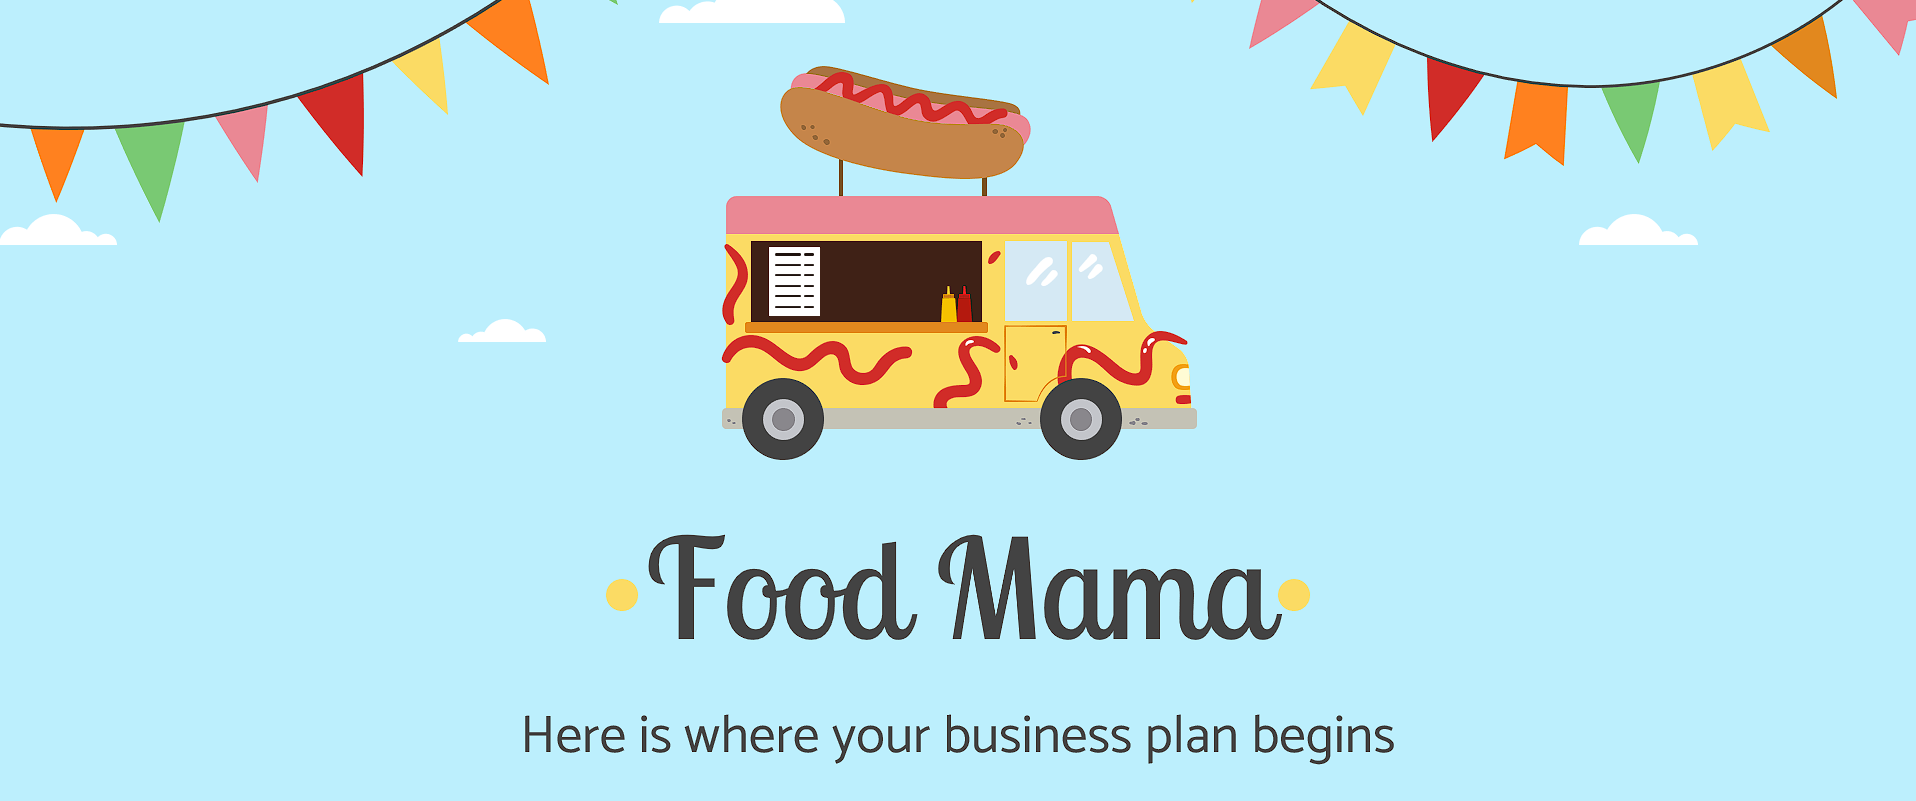
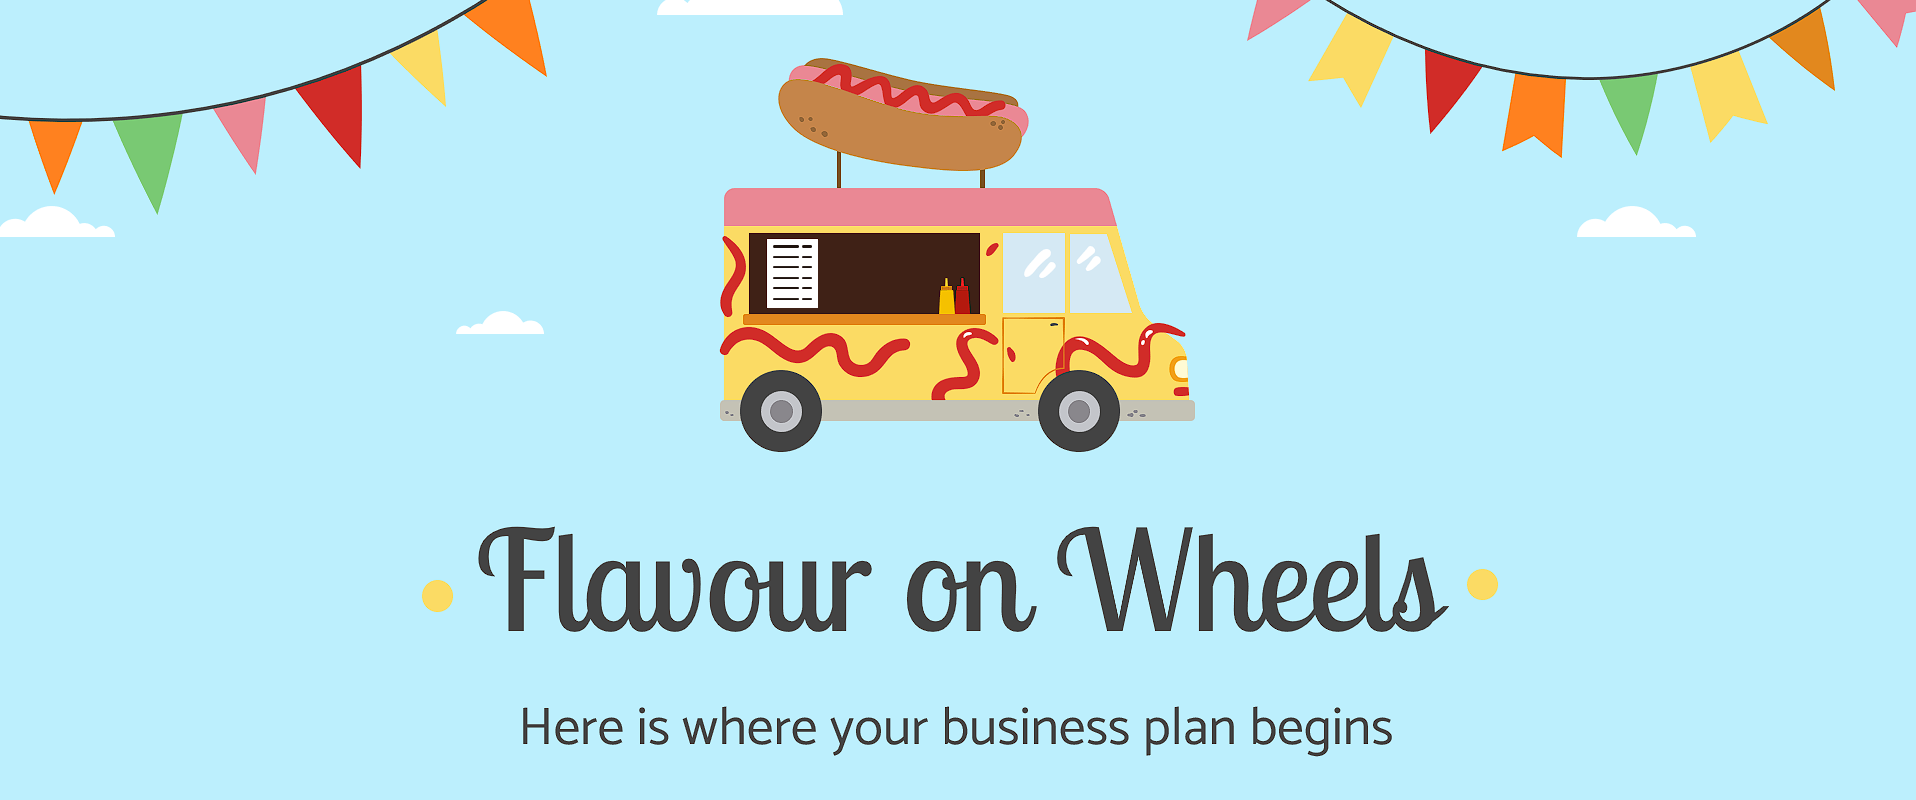
foodmama to flavour on wheels

diff --git a/templates/base.html b/templates/base.html
@@ -5,7 +5,7 @@
     <meta http-equiv="X-UA-Compatible" content="IE=edge" />
     <meta name="viewport" content="width=device-width, initial-scale=1.0" />
 
-    <title>{% block title %}Food Mama{% endblock %}</title>
+    <title>{% block title %}Flavour on Wheels{% endblock %}</title>
 
     <!-- Bootstrap -->
     <link
@@ -38,7 +38,7 @@
     <!-- Navbar -->
     <nav class="navbar fixed-top navbar-dark bg-warning">
       <div class="container-fluid">
-        <a class="navbar-brand" href='{{ url_for("home") }}'>Food Mama</a>
+        <a class="navbar-brand" href='{{ url_for("home") }}'>Flavour on Wheels</a>
 
         <form class="d-flex search-form ms-sm-auto" role="search">
           <input
@@ -92,7 +92,7 @@
     <!-- Navbar Placeholder -->
     <nav class="navbar navbar-placeholder navbar-dark bg-warning">
       <div class="container-fluid">
-        <a class="navbar-brand" href="#">Food Mama</a>
+        <a class="navbar-brand" href="#">Flavour on Wheels</a>
 
         <form class="d-flex search-form ms-sm-auto" role="search">
           <input
@@ -149,7 +149,7 @@
 <!--          <a href=""><i class="fa-brands fa-twitter"></i></a>-->
 <!--          <a href=""><i class="fa-brands fa-discord"></i></a>-->
 <!--        </div>-->
-<!--        <h4 id="copyright">@ Copyright </h4><h1 class="brand">Food Mama</h1>-->
+<!--        <h4 id="copyright">@ Copyright </h4><h1 class="brand">Flavour on Wheels</h1>-->
 <!--      </footer>-->
     <!-- Bootstraps -->
     <script
@@ -162,14 +162,14 @@
     <script>
       const input = document.querySelector(".search-input");
       if (window.innerWidth <= 575) {
-        input.setAttribute("placeholder", "Food Mama");
+        input.setAttribute("placeholder", "Flavour on Wheels");
       } else {
         input.setAttribute("placeholder", "Search");
       }
       window.onresize = () =>
         input.setAttribute(
           "placeholder",
-          window.innerWidth < 576 ? "Food Mama" : "Search"
+          window.innerWidth < 576 ? "Flavour on Wheels" : "Search"
         );
     </script>
 

diff --git a/templates/checkout.html b/templates/checkout.html
@@ -1,4 +1,4 @@
-{% extends "base.html" %} {% block title %}Food Mama | Checkout{% endblock %} {%
+{% extends "base.html" %} {% block title %}Flavour on Wheels | Checkout{% endblock %} {%
 block content %}
 
 {% if mode=="cart" and not current_user.cart | length %}

diff --git a/templates/register.html b/templates/register.html
@@ -1,6 +1,6 @@
 {% extends "base.html" %}
 {% import "bootstrap/wtf.html" as wtf %}
-{% block title %}Food Mama | Cart{% endblock %}
+{% block title %}Flavour on Wheels | Cart{% endblock %}
 {% block content %}
     <!-- BODY -->
 

diff --git a/templates/cart.html b/templates/cart.html
@@ -1,5 +1,5 @@
 {% extends "base.html" %}
-{% block title %}Food Mama | Cart{% endblock %}
+{% block title %}Flavour on Wheels | Cart{% endblock %}
 {% block content %}
   {% if cart_data | length %}
     <div class="food-cart">

diff --git a/templates/login.html b/templates/login.html
@@ -1,5 +1,5 @@
 {% extends "base.html" %}
-{% block title %}Food Mama | Login{% endblock %}
+{% block title %}Flavour on Wheels | Login{% endblock %}
 {% block content %}
     <!-- BODY -->
 

diff --git a/templates/product.html b/templates/product.html
@@ -1,5 +1,5 @@
 {% extends "base.html" %}
-{% block title %}Food Mama | Product{% endblock %}
+{% block title %}Flavour on Wheels | Product{% endblock %}
 {% block content %}
 <!-- BODY -->
 

diff --git a/main.py b/main.py
@@ -112,8 +112,8 @@ def send_otp():
     for _ in range(6):
         otp += str(random.randint(0, 9))
     print(otp)
-    msg = Message(f"Food Mama: Email Verification OTP [{otp}]", sender=EMAIL_ID, recipients=[email])
-    msg.html = f'''<h2>OTP for you Email Verification is-</h2>\n<h1>{otp}</h1>\n\n<h4>Thanks and Regards,</h4><h4>Food Mama.</h4>'''
+    msg = Message(f"Flavour on Wheels: Email Verification OTP [{otp}]", sender=EMAIL_ID, recipients=[email])
+    msg.html = f'''<h2>OTP for you Email Verification is-</h2>\n<h1>{otp}</h1>\n\n<h4>Thanks and Regards,</h4><h4>Flavour on Wheels.</h4>'''
     mail.send(msg)
 
 
